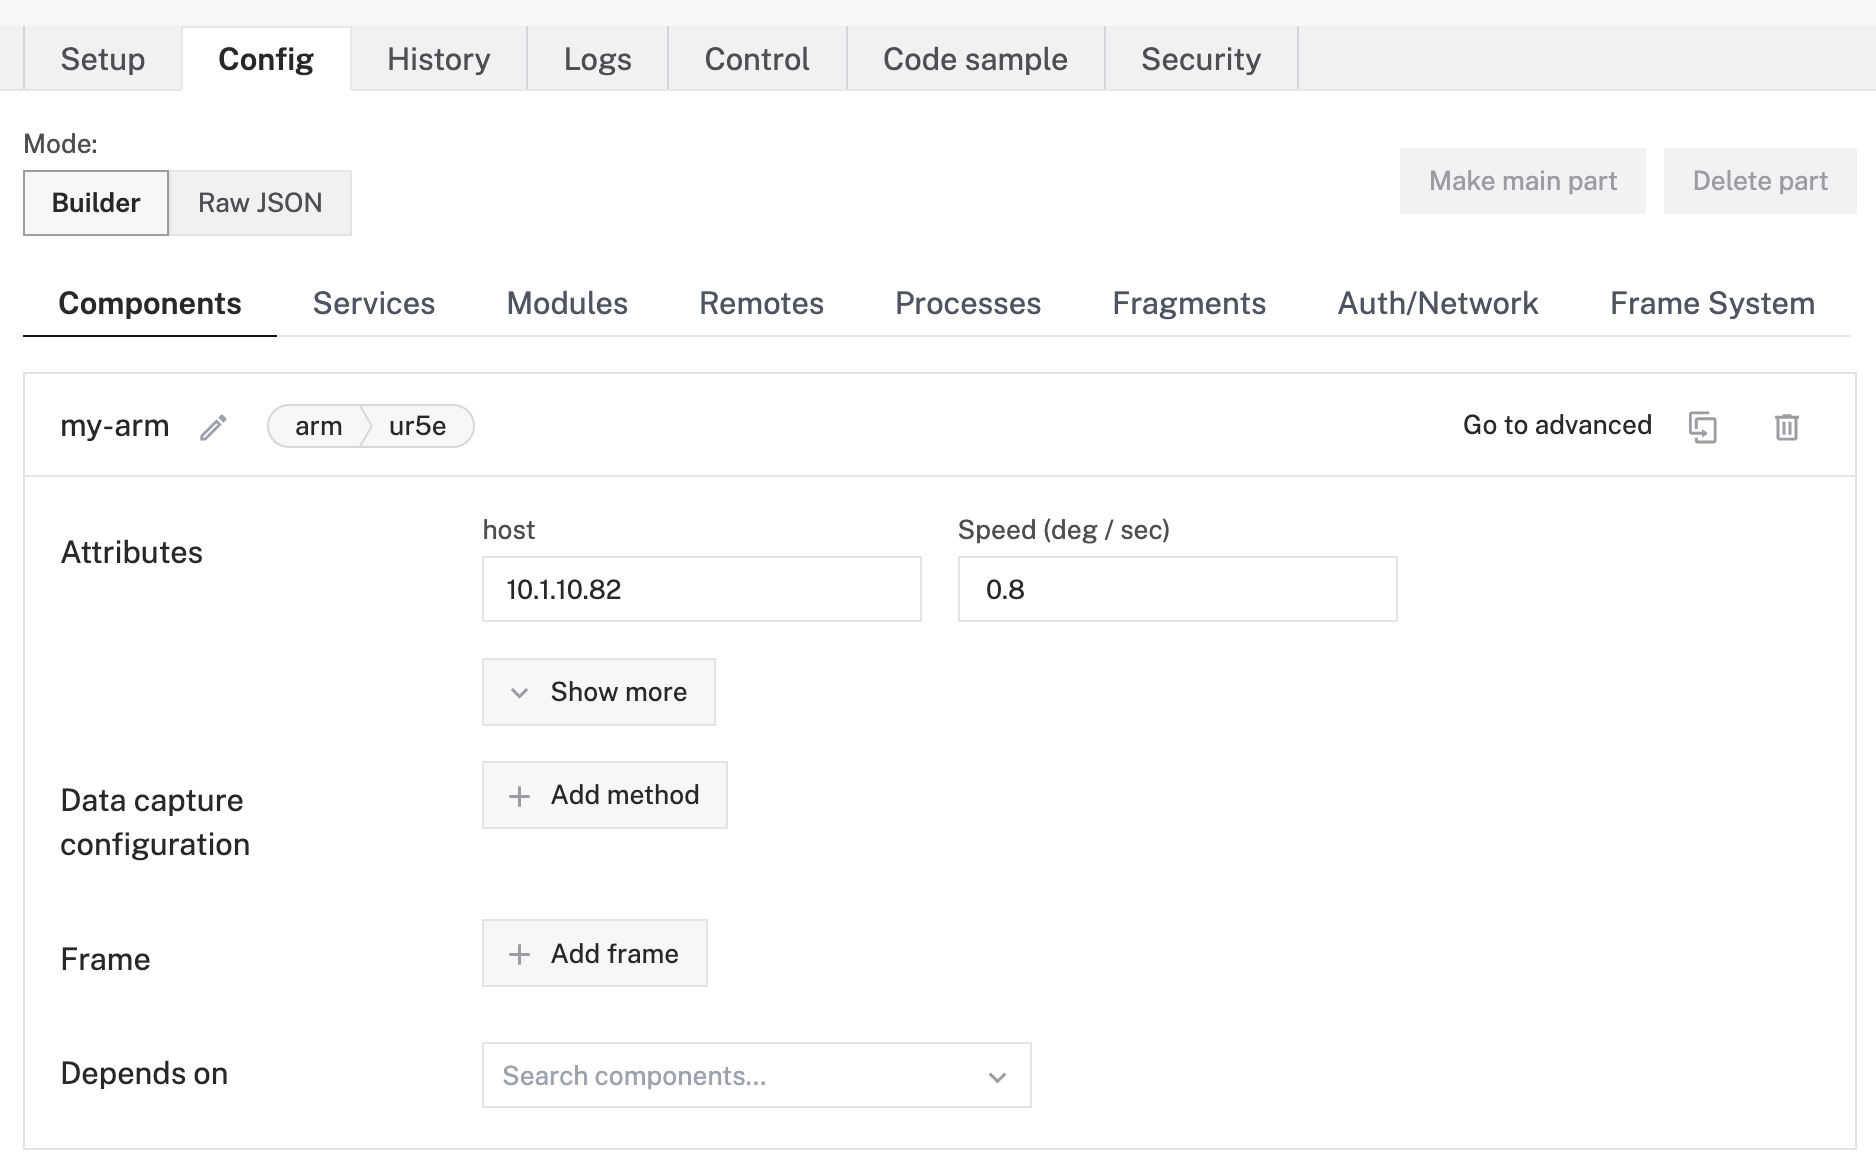
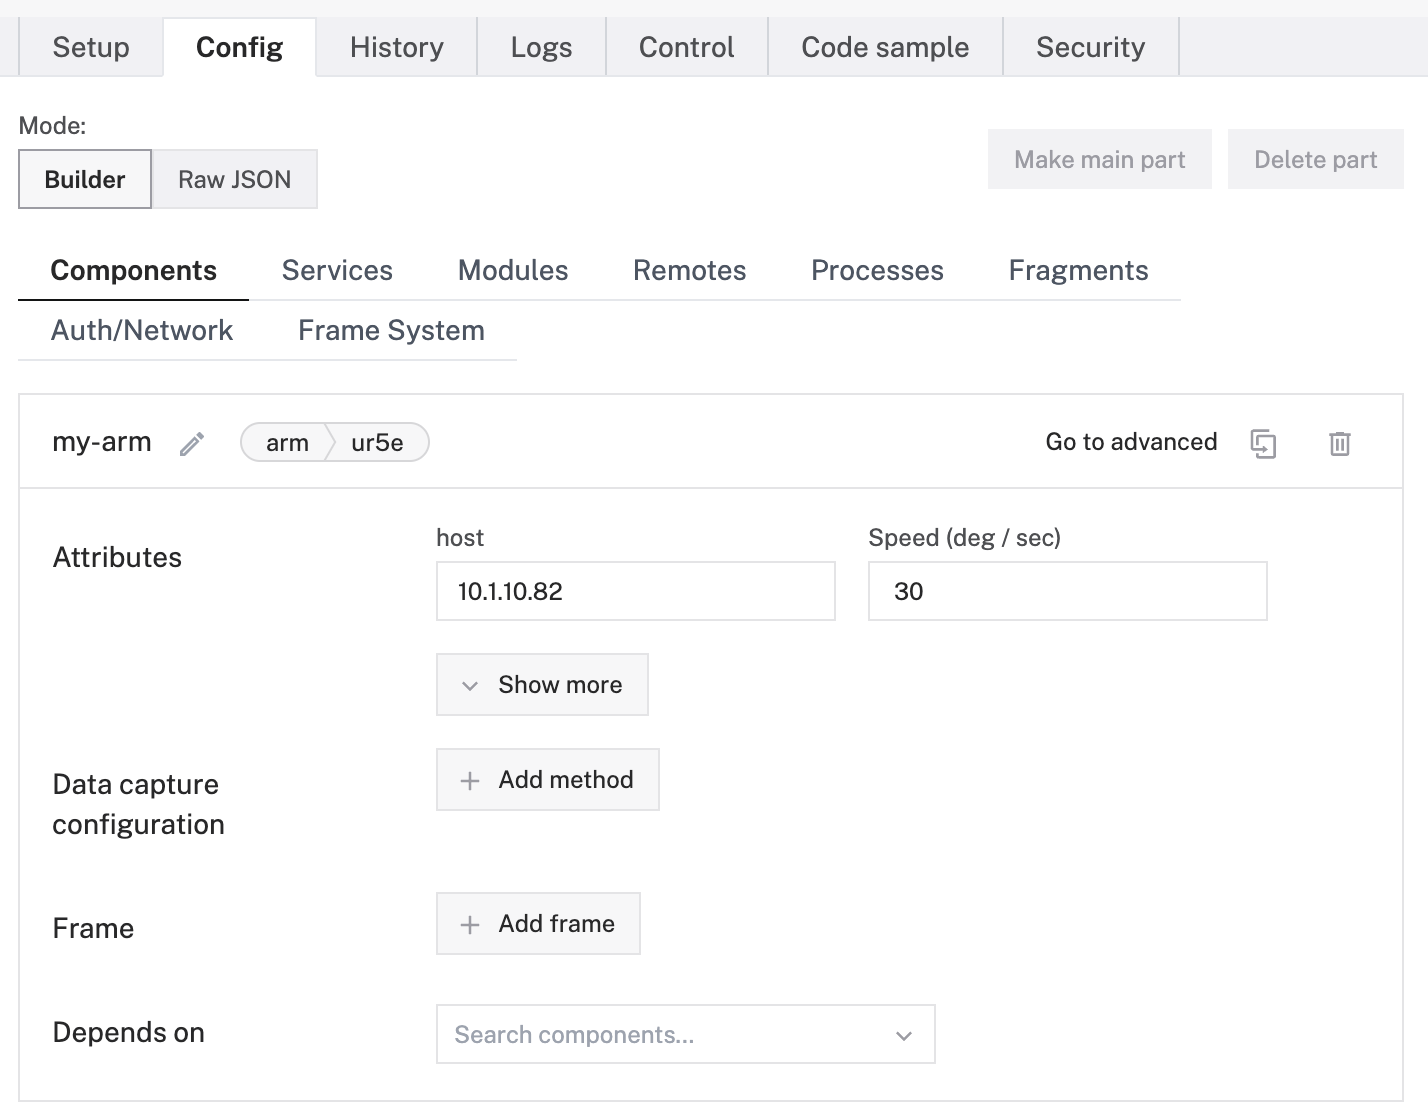
Fix ur5e example

diff --git a/docs/components/arm/ur5e.md b/docs/components/arm/ur5e.md
@@ -53,7 +53,7 @@ Edit and fill in the attributes as applicable.
       "type": "arm",
       "model": "ur5e",
       "attributes": {
-        "speed_degs_per_sec": 0.8,
+        "speed_degs_per_sec": 30,
         "host": "10.1.10.82"
       },
       "depends_on": []
